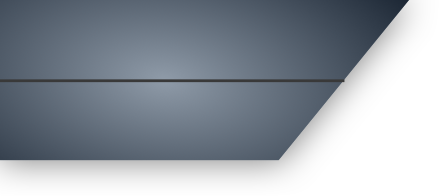
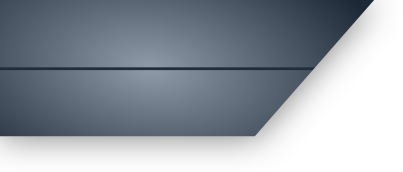
left menubar

diff --git a/style/style.css b/style/style.css
@@ -204,38 +204,66 @@ button .banner {
 }
 
 #top-menu {
-  display: flex;
-  flex-direction: row;
   position: absolute;
   top: 0;
   z-index: 2;
   width: 100%;
+  height: 10%;
 }
 
 #left {
-  flex-grow: 1;
-  background-color: cadetblue;
+  float: left;
+  display: flex;
+  flex-direction: column;
+  align-items: center;
+  width: 30%;
+  background-image: url(../images/menubar.png);
+  background-repeat: no-repeat;
+  background-size: 100% 100%;
+  
 }
 
-.left-text {
-  position: relative;
-  margin: 10px 0 10px 20px;
-  font-family: sans-serif;
-  font-size: 40px;
-  color: white;
+#pause {
+  cursor: pointer;
+  font-family: 'Montserrat', sans-serif;
+  font-weight: 400;
+  font-size: 1.5em;
+  background: none;
+  border: none;
+  margin: 0;
+  color: #C9C1C1;
+  text-shadow: 0px 1px 15px rgba(0,0,0,0.50);
 }
+
+#pause:hover {
+  text-shadow: 0px 5px 15px rgba(0,0,0,0.90);
+}
+
+#menu-pause {
+  margin: 0.8em 0 2em -6em;
+}
+
+/* #menu-bg {
+  width: auto;
+  height: auto;
+  scale: both;
+  position: absolute;
+  left: 0;
+  top: 0;
+} */
 
 #level-counter {
   position: relative;
-  margin: 10px 0 10px 20px;
-  font-family: sans-serif;
-  font-size: 40px;
-  color: white;
+  margin: 0.2em 0 0.2em -3em;
+  font-family: 'Montserrat', sans-serif;
+  font-weight: 400;
+  font-size: 1.5em;
+  color: #C9C1C1;
+  text-shadow: 0px 1px 15px rgba(0,0,0,0.50);
 }
 
 #right {
-  flex-grow: 2;
-  background-color: darksalmon;
+  float: right;
 }
 
 .right-text {
@@ -471,7 +499,7 @@ p {
   margin-top: 20px;
   left: 50%;
   transform: translateX(-50%);
-  background-color: #18306E;
+  background-color: #F1AE3E;
 }
 
 #pause-menu-screen-darken {

diff --git a/index.html b/index.html
@@ -99,12 +99,15 @@
       <!-- Top menu UI -->
       <div id="top-menu">
         <div id="left">
+          <!-- <img src="images/menubar.png" id="menu-bg"> -->
           <p id="level-counter"></p>
-          <button id="pause" onclick="pause()">Pause</button>
+          <div id="menu-pause">
+            <p id="pause" onclick="pause()">Pause</p>
+          </div>
         </div>
         <div id="right">
-          <p id="life-counter"></p>
           <p id="score-counter"></p>
+          <p id="life-counter"></p>
         </div>
       </div>
       <!-- Word displayed -->
